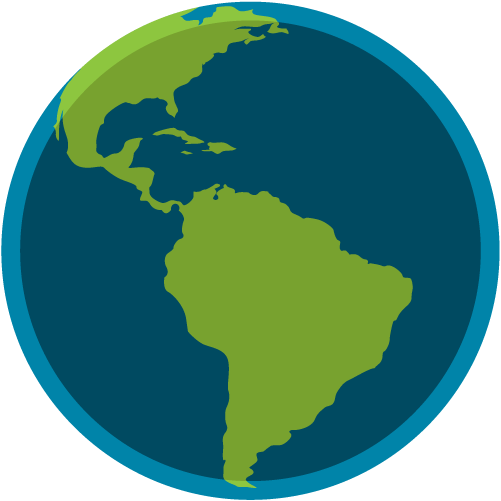
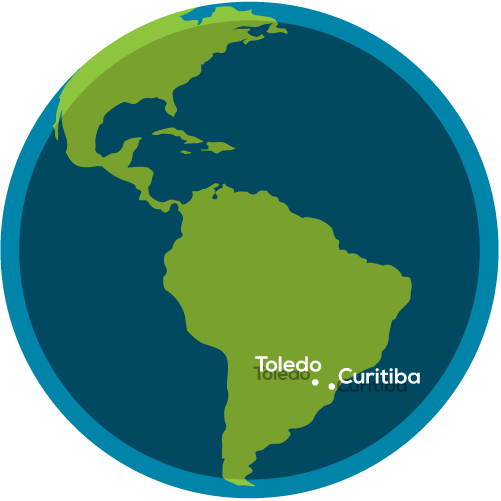
Alteracoes para adicionar novo endereco

diff --git a/app/assets/stylesheets/contato.css.scss b/app/assets/stylesheets/contato.css.scss
@@ -41,7 +41,7 @@
       
     .fundo_globo {
       position: relative;
-      top: -15% !important;
+      top: -10% !important;
       left: 50% !important;
       -webkit-transition: 0.5s linear;
       transition: 0.5s linear;

diff --git a/app/assets/stylesheets/styles.css.scss b/app/assets/stylesheets/styles.css.scss
@@ -522,6 +522,7 @@ a {
 	text-align: right;
 	display: inline-block;
 	float: right;
+	margin-left: 50px;
 }
 #home_rodape .rodape .endereco h3{
 	font: normal 18px/1.5 "nexa_bold", Tahoma;
